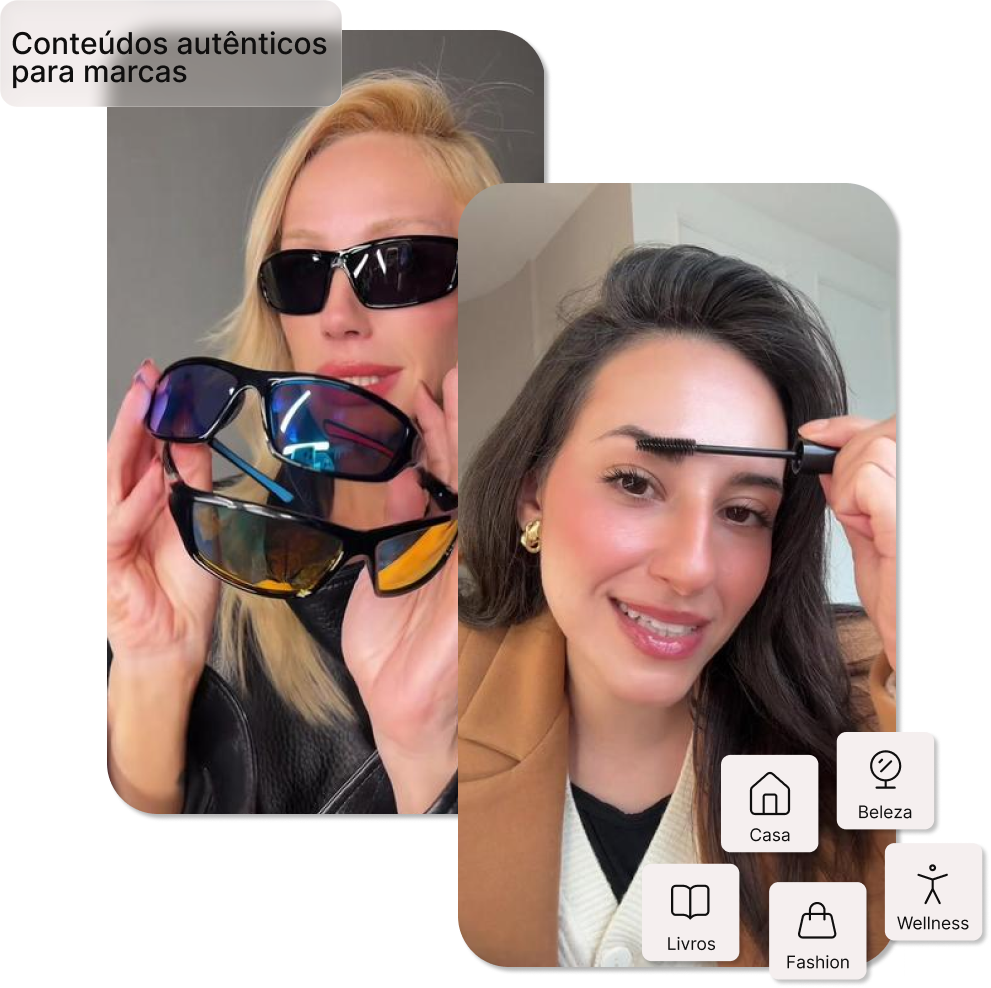
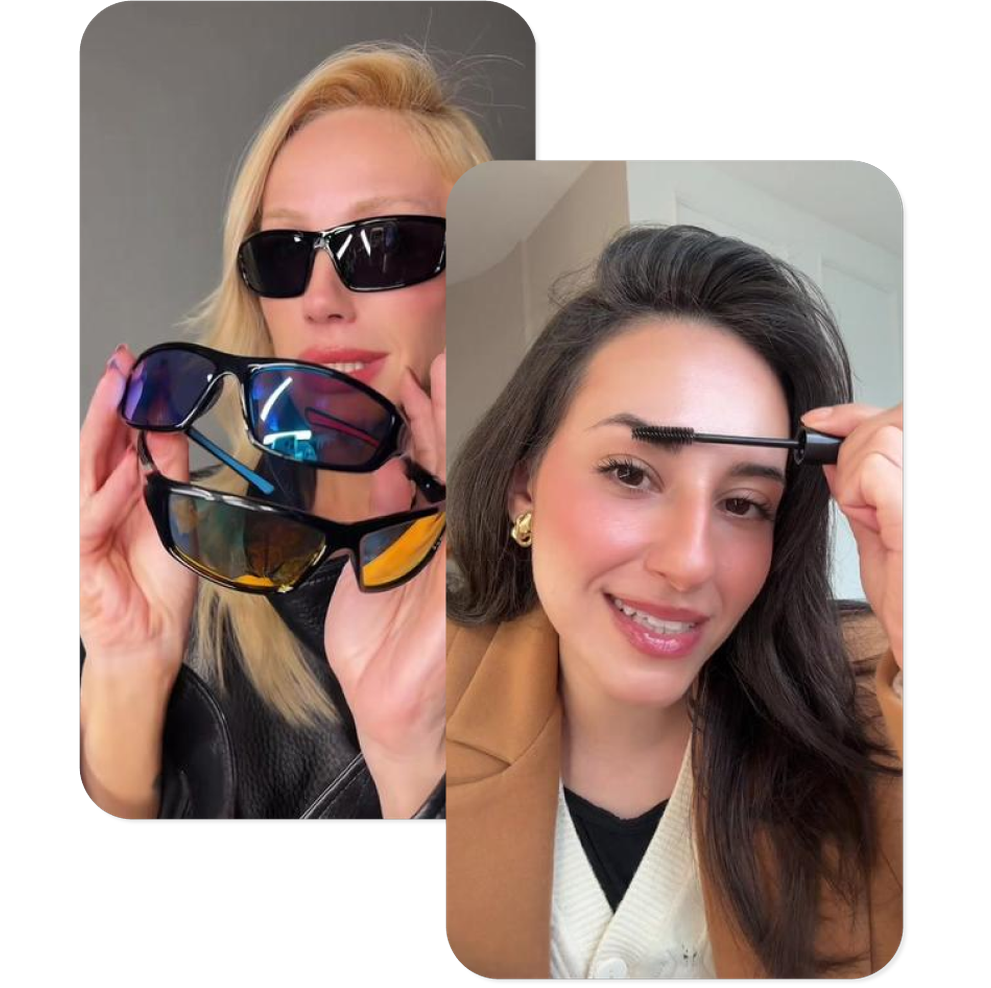
feat: images of tiktok shop section

diff --git a/src/app/features/home/home.page.html b/src/app/features/home/home.page.html
@@ -122,7 +122,7 @@
         <h2>Tudo para vender no TikTok Shop, em um lugar só</h2>
       </div>
       <div class="learning-big-card span-4 md-span-3 lg-span-6">
-        <img src="/images/creators/nathalia_bisson.jpeg" alt="Nath Bisson" />
+        <img src="/images/tiktok-shop-creators.webp" alt="Creators" />
         <main>
           <h3>Creators</h3>
           <p>desenvolvimento, comunidade, suporte e oportunidades</p>
@@ -130,7 +130,7 @@
         </main>
       </div>
       <div class="learning-big-card span-4 md-span-3 lg-span-6">
-        <img src="/images/creators/nathalia_bisson.jpeg" alt="Nath Bisson" />
+        <img src="/images/tiktok-shop-marcas.webp" alt="Marcas" />
         <main>
           <h3>Marcas</h3>
           <p>creators, campanhas, conteúdo e vendas</p>
